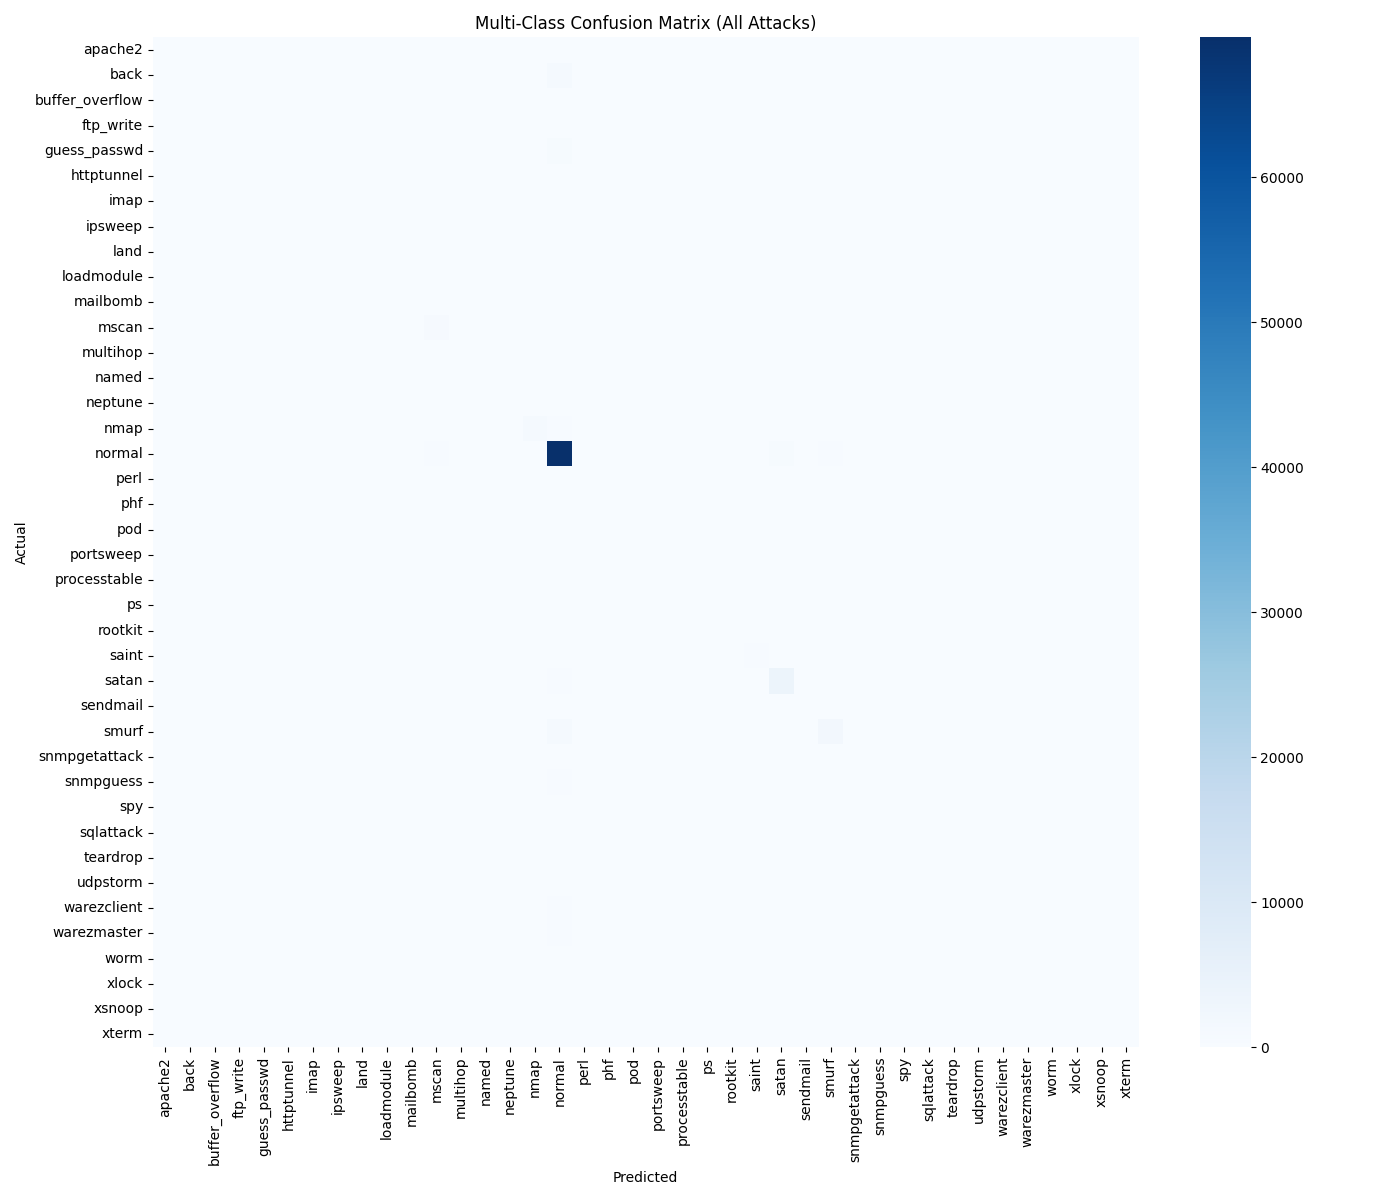
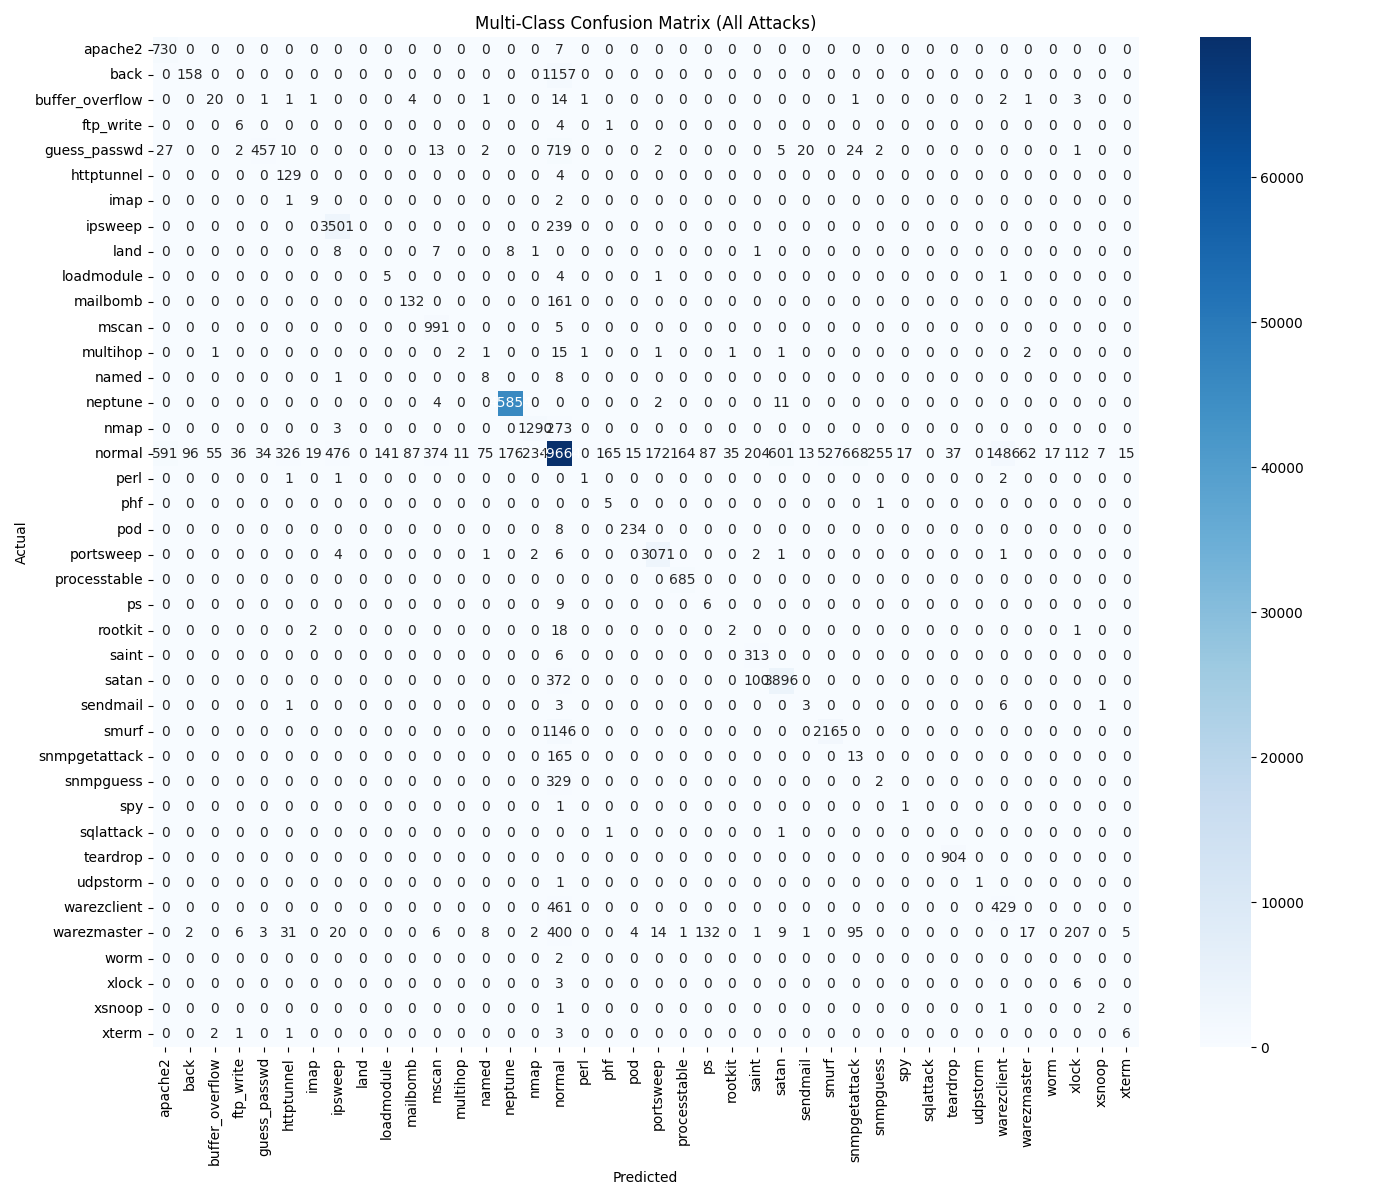
modified testappcsv

diff --git a/test_app_csv.py b/test_app_csv.py
@@ -160,7 +160,10 @@ if len(attack_rows) > 0:
 else:
     attack_labels = []
 
-predicted_labels = np.where(is_anomaly, "attack", "normal")
+predicted_labels = np.array(
+    ["normal"] * len(df),
+    dtype=object
+)
 predicted_labels[is_anomaly] = attack_labels
 
 results_df = pd.DataFrame({
@@ -213,6 +216,19 @@ plt.savefig(RES_DIR / "confusion_matrix_binary_test_app.png")
 print("\n=== MULTI-CLASS CONFUSION MATRIX ===")
 
 labels = sorted(results_df["actual_label"].unique())
+print("\nActual labels:")
+print(sorted(results_df["actual_label"].unique()))
+
+print("\nPredicted labels:")
+print(sorted(results_df["predicted_label"].unique()))
+
+print(
+    results_df["predicted_label"].value_counts()
+)
+
+print(
+    (results_df["predicted_label"] == "neptune").sum()
+)
 
 cm_multi = confusion_matrix(
     results_df["actual_label"],
@@ -224,10 +240,14 @@ print("Matrix shape:", cm_multi.shape)
 
 # Plot Multi-class CM
 plt.figure(figsize=(14,12))
-sns.heatmap(cm_multi,
-            cmap="Blues",
-            xticklabels=labels,
-            yticklabels=labels)
+sns.heatmap(
+    cm_multi,
+    annot=True,
+    fmt="d",
+    cmap="Blues",
+    xticklabels=labels,
+    yticklabels=labels
+)
 
 plt.xlabel("Predicted")
 plt.ylabel("Actual")
@@ -241,6 +261,14 @@ plt.savefig(RES_DIR / "confusion_matrix_multiclass_test_app.png")
 # ----------- 3. SAVE CONFUSION MATRIX -----------
 cm_df = pd.DataFrame(cm_multi, index=labels, columns=labels)
 cm_df.to_csv(RES_DIR / "confusion_matrix_38_classes_test_app.csv")
+print("\nNeptune row:")
+print(cm_df.loc["neptune"])
+
+print("\nNeptune -> Neptune:")
+print(cm_df.loc["neptune", "neptune"])
+
+print("\nNeptune row sum:")
+print(cm_df.loc["neptune"].sum())
 
 print("✅ Confusion matrix saved to CSV")
 
